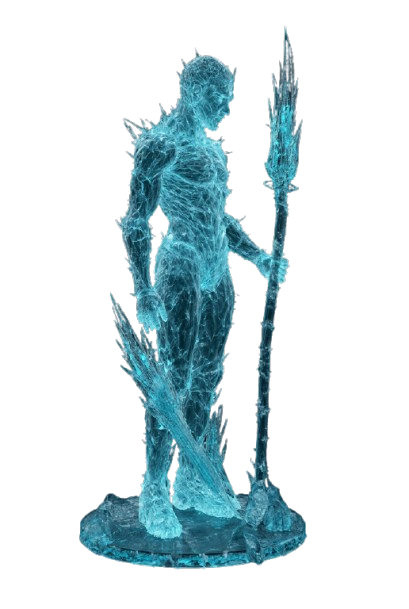
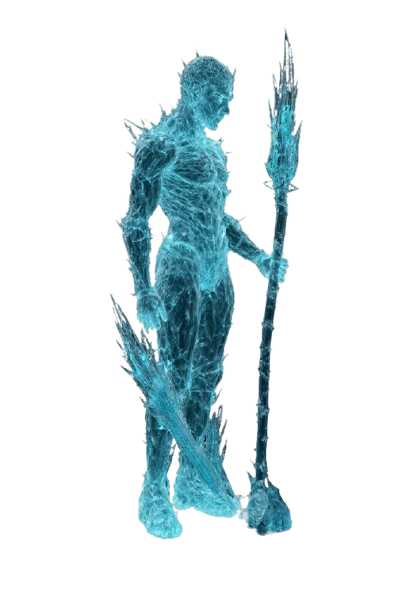
бот-скины: откат авто-скейла + обновлён бот #22 (v2.6.03)
- удалён JS auto-normalize: квадратные боссы выпирали в центр на VS/игрока
- transform: scale(var(--boss-scale, 1)) — без auto, только ручной OVERRIDE
- скин #22 обновлён (землю под ногами убрали в исходнике)

diff --git a/webapp/bot_skins_preview.html b/webapp/bot_skins_preview.html
@@ -46,8 +46,7 @@
   .player{left:3%;  width:38%; height:48%;}
   .boss  {right:3%; width:46%; height:56%;
           bottom:calc(30% - var(--boss-nudge, 0px));
-          transform:scale(calc(var(--boss-scale, 1) * var(--auto-scale, 1)));
-          transform-origin:50% 100%;}
+          transform:scale(var(--boss-scale, 1));transform-origin:50% 100%;}
   .player img,.boss img{width:100%;height:100%;object-fit:contain;object-position:bottom;
     -webkit-mask-image:linear-gradient(to top,transparent 0%,#000 12%);
             mask-image:linear-gradient(to top,transparent 0%,#000 12%);
@@ -144,20 +143,6 @@
       <div class="vignette"></div>
     </div>`;
   }).join('');
-
-  // Авто-нормализация роста: компенсирует разные пропорции PNG, чтобы все боссы были одной высоты
-  document.querySelectorAll('.boss img').forEach(img => {
-    const fit = () => {
-      const c = img.closest('.boss');
-      const cw = c.clientWidth, ch = c.clientHeight;
-      if (!cw || !ch || !img.naturalWidth) return;
-      const ir = img.naturalWidth / img.naturalHeight, cr = cw / ch;
-      const realH = ir > cr ? cw / ir : ch;
-      const need = Math.min(1.45, ch * 0.97 / realH);
-      if (need > 1.04) c.style.setProperty('--auto-scale', need.toFixed(3));
-    };
-    img.complete ? fit() : img.addEventListener('load', fit);
-  });
 </script>
 </body>
 </html>

diff --git a/version.py b/version.py
@@ -3,9 +3,9 @@ version.py — текущая версия проекта Duel Arena.
 Обновляется при каждом значимом изменении.
 """
 
-VERSION = "2.6.03"
-VERSION_LABEL = "v2.6.03 — WB: _debug_nick в /state для диагностики (TEMP)"
+VERSION = "2.6.04"
+VERSION_LABEL = "v2.6.04 — превью арены: откат авто-скейла + обновлён бот #22"
 
 # Игровая версия для UI (bot / mini app). Один источник истины.
 # При деплое с изменениями кода увеличивать на +0.01 (например 2.01 → 2.02).
-GAME_VERSION = "10.77"
+GAME_VERSION = "10.78"
